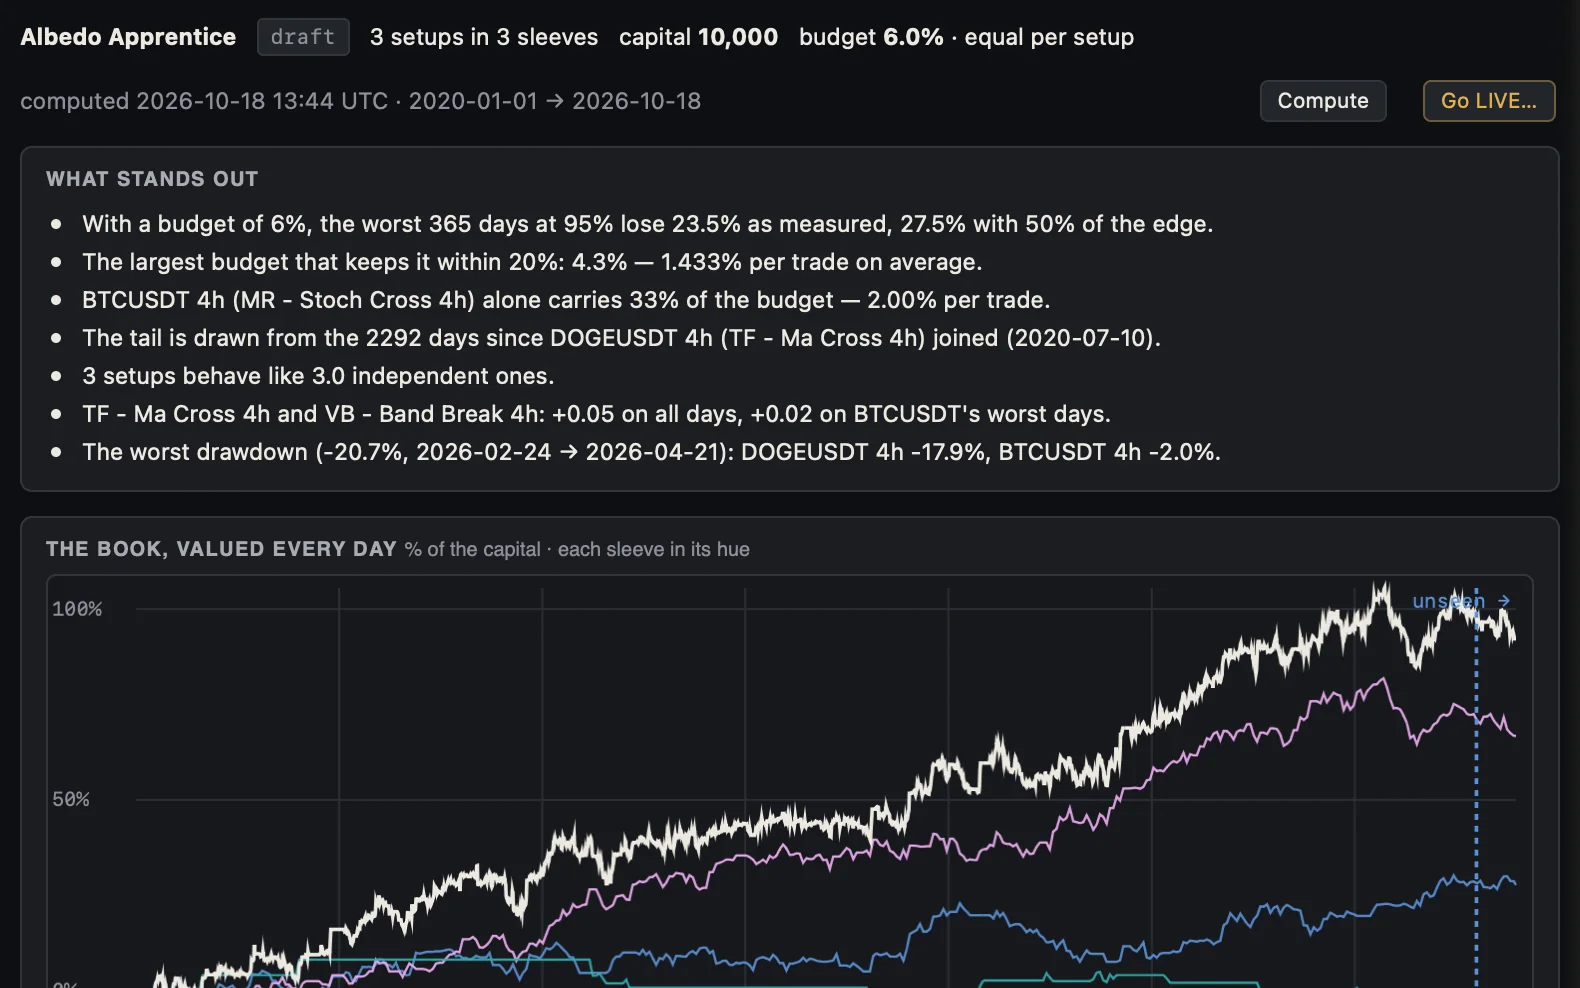
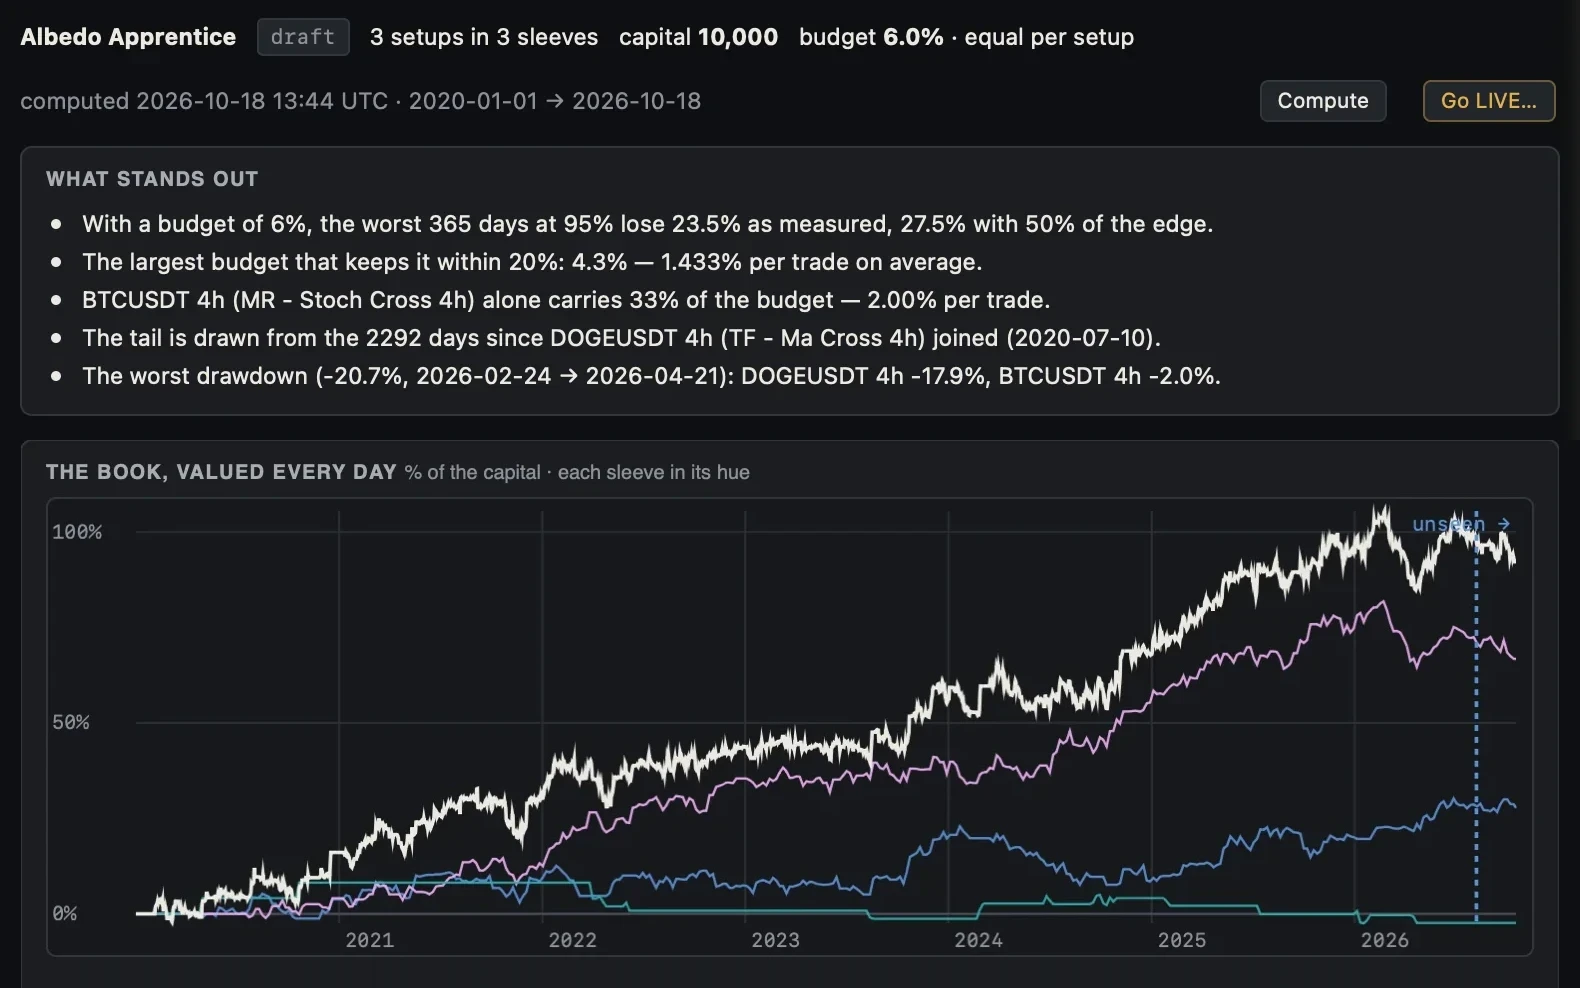
Home: Let it run picture with two lines fewer, the Book's chart whole

diff --git a/index.html b/index.html
@@ -65,7 +65,7 @@
     <div class="trio">
       <article class="tile"><p class="eyebrow">manual</p><h3><a href="phisys.html#draw">Draw it</a></h3><p class="say">Stop and three targets on the chart; the trade sized from your risk and sent to your account.</p><figure class="tile-img"><div class="shot has-img"><img src="img/phisys/hero-manual.webp" alt="Phisys: Draw it" loading="lazy" decoding="async"></div></figure></article>
       <article class="tile"><p class="eyebrow">algo</p><h3><a href="phisys.html#prove">Prove it</a></h3><p class="say">Walk-forward optimisation with the venue’s real costs, on nearly 300 assets since 2017.</p><figure class="tile-img"><div class="shot has-img"><img src="img/phisys/hero-algo.webp" alt="Phisys: Prove it" loading="lazy" decoding="async"></div></figure></article>
-      <article class="tile"><p class="eyebrow">book</p><h3><a href="phisys.html#run">Let it run</a></h3><p class="say">Stop staring at charts: your tested setups run round the clock from your own Cloudflare account.</p><figure class="tile-img"><div class="shot has-img"><img src="img/phisys/hero-book.webp" alt="Phisys: Let it run" loading="lazy" decoding="async"></div></figure></article>
+      <article class="tile"><p class="eyebrow">book</p><h3><a href="phisys.html#run">Let it run</a></h3><p class="say">Stop staring at charts: your tested setups run round the clock from your own Cloudflare account.</p><figure class="tile-img"><div class="shot has-img"><img src="img/phisys/hero-book.webp?v=2" alt="Phisys: Let it run" loading="lazy" decoding="async"></div></figure></article>
     </div>
     <div class="bigshot carousel" role="region" aria-roledescription="carousel" aria-label="Phisys, screen by screen"><div class="track"><figure class="slide"><img src="img/phisys/overview.webp" alt="Phisys: Chart, watchlist, account and trades, in one page" decoding="async"><figcaption>Chart, watchlist, account and trades, in one page</figcaption></figure><figure class="slide" aria-hidden="true"><img src="img/phisys/draw-the-trade.webp" alt="Phisys: Draw the trade: stop and three targets, sized from your risk" loading="lazy" decoding="async"><figcaption>Draw the trade: stop and three targets, sized from your risk</figcaption></figure><figure class="slide" aria-hidden="true"><img src="img/phisys/corner.webp" alt="Phisys: Check Point: a second opinion before you send it" loading="lazy" decoding="async"><figcaption>Check Point: a second opinion before you send it</figcaption></figure><figure class="slide" aria-hidden="true"><img src="img/phisys/assistant.webp" alt="Phisys: The assistant writes the rule with you" loading="lazy" decoding="async"><figcaption>The assistant writes the rule with you</figcaption></figure><figure class="slide" aria-hidden="true"><img src="img/phisys/walk-forward.webp" alt="Phisys: Walk-forward: scored on what came after" loading="lazy" decoding="async"><figcaption>Walk-forward: scored on what came after</figcaption></figure><figure class="slide" aria-hidden="true"><img src="img/phisys/settings-map.webp" alt="Phisys: Every setting on one map: the plateau, not the peak" loading="lazy" decoding="async"><figcaption>Every setting on one map: the plateau, not the peak</figcaption></figure><figure class="slide" aria-hidden="true"><img src="img/phisys/book.webp" alt="Phisys: Your Book: the setups that held" loading="lazy" decoding="async"><figcaption>Your Book: the setups that held</figcaption></figure><figure class="slide" aria-hidden="true"><img src="img/phisys/telegram.webp" alt="Phisys: Telegram, only when something needs you" loading="lazy" decoding="async"><figcaption>Telegram, only when something needs you</figcaption></figure></div><button type="button" class="reel-btn prev" aria-label="Previous"><svg viewBox="0 0 24 24" aria-hidden="true"><path d="M4 12h15M14 7l5 5-5 5" fill="none" stroke="currentColor" stroke-width="1.8" stroke-linecap="round" stroke-linejoin="round"/></svg></button><button type="button" class="reel-btn next" aria-label="Next"><svg viewBox="0 0 24 24" aria-hidden="true"><path d="M4 12h15M14 7l5 5-5 5" fill="none" stroke="currentColor" stroke-width="1.8" stroke-linecap="round" stroke-linejoin="round"/></svg></button><div class="car-dots" role="group" aria-label="Choose a slide"><button type="button" class="dot on" aria-label="Slide 1 of 8" aria-current="true"></button><button type="button" class="dot" aria-label="Slide 2 of 8"></button><button type="button" class="dot" aria-label="Slide 3 of 8"></button><button type="button" class="dot" aria-label="Slide 4 of 8"></button><button type="button" class="dot" aria-label="Slide 5 of 8"></button><button type="button" class="dot" aria-label="Slide 6 of 8"></button><button type="button" class="dot" aria-label="Slide 7 of 8"></button><button type="button" class="dot" aria-label="Slide 8 of 8"></button></div></div><div class="car-cta"><a class="btn fill" href="phisys.html">More in Phisys<svg class="ic" aria-hidden="true" focusable="false"><use href="#i-arrow"/></svg></a></div>
   </div>
